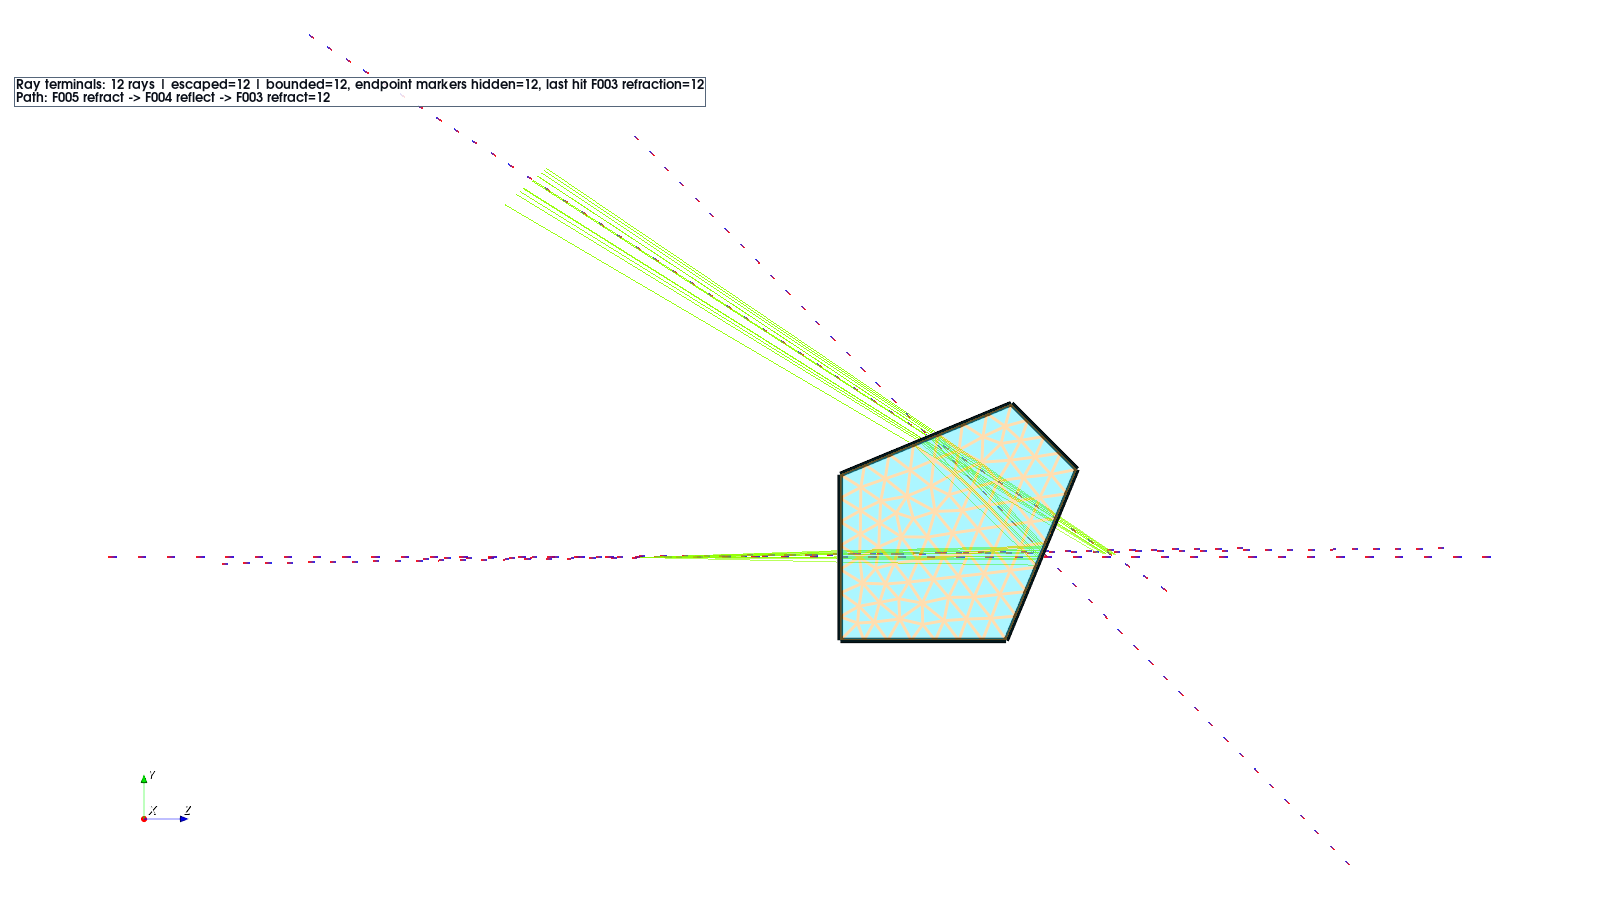
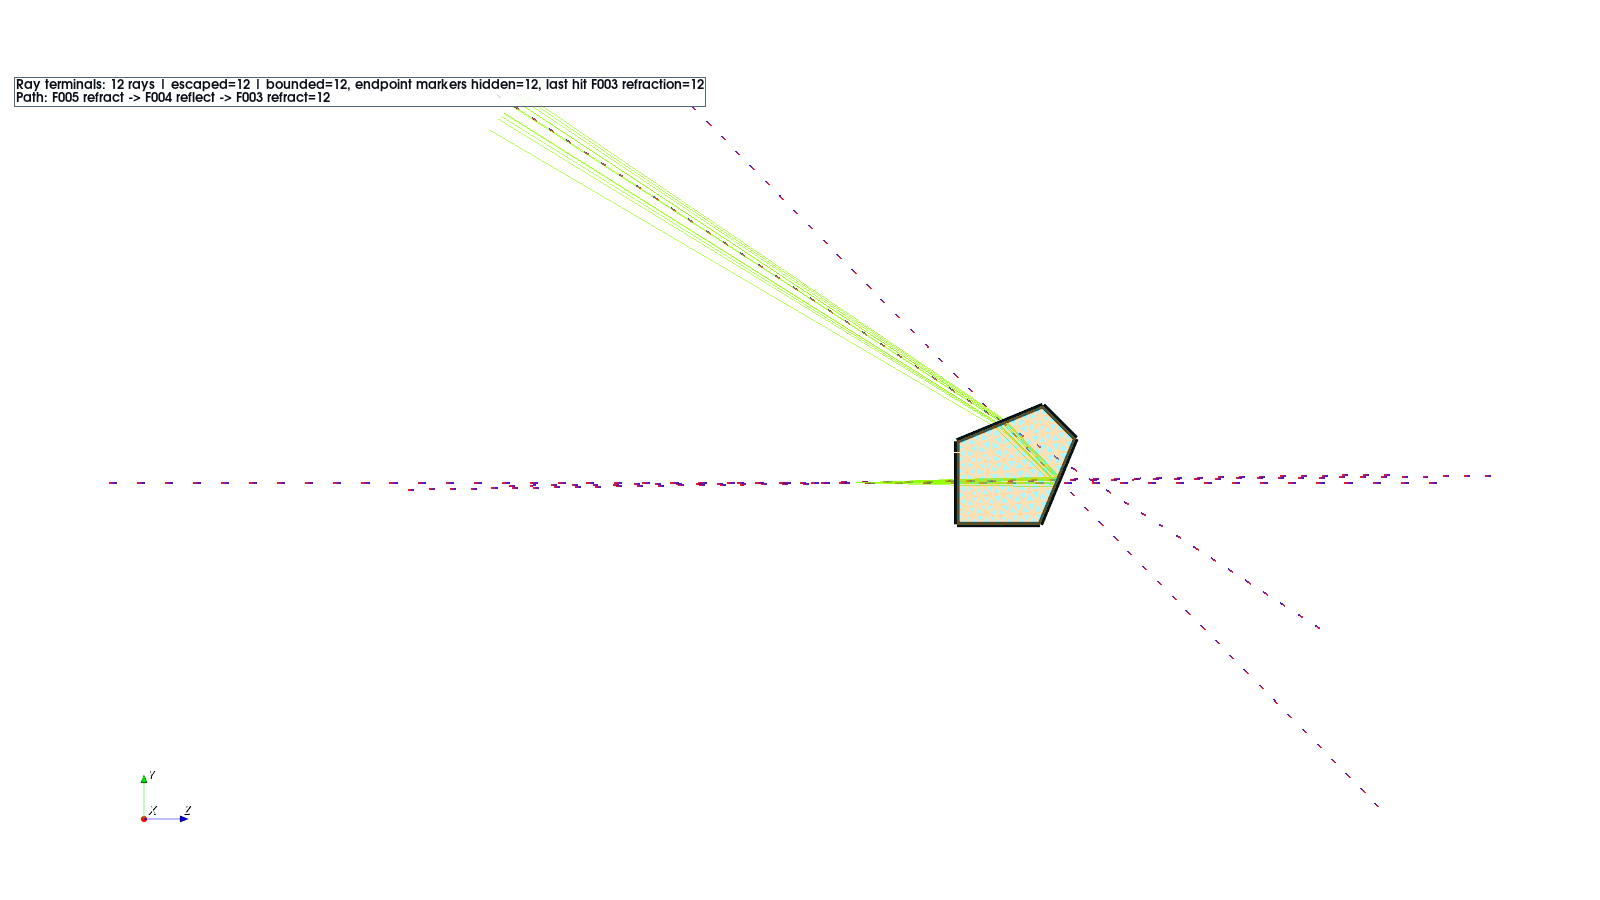
Document ray direction display fix

Changed region(s): [[0.4062, 0.4356, 0.7188, 0.7156], [0.3125, 0.1244, 0.5938, 0.4667]]

diff --git a/BRANCH_README.md b/BRANCH_README.md
@@ -59,21 +59,21 @@ Estimated branch status:
 Overall branch direction: keep moving toward one scene/event truth source while
 preserving exact sequential prescriptions as the ordered-path special case.
 
-Latest movement on 2026-05-22: Open 3D now reports the final CAD face/action and
-the dominant full face/action path sequence in the in-viewport ray terminal
-summary. A headless diagnostic with only F004 assigned `Full Reflecting` records
+Latest movement on 2026-05-22: RayKeeper now sign-reconciles canonical
+incoming/outgoing event directions against the traced physical polyline, and the
+shared 2D/Open 3D escaped-ray capper also rejects terminal vectors that point
+opposite the traced terminal segment. This fixes the false post-reflection tail
+that looked like F004 leakage or a both-directions hypotenuse ray after an odd
+number of reflections. Open 3D also keeps same-slot optical STEP imports
+non-destructive by auto-promoting the previous unpromoted overlay before loading
+the next one, and adds a targeted `Delete Selected STEP` command. A headless
+diagnostic with only F004 assigned `Full Reflecting` records
 `F004:reflection=12`, then the bundle exits at still default-Uncoated F003
 (`last hit F003 refraction=12`). With both F003 and F004 assigned
 `Full Reflecting`, the same diagnostic records
 `F005 refract -> F004 reflect -> F003 reflect -> F006 refract` for all 12 rays.
-The STEP1-STEP8 headless workflow now saves the event sequence, event direction
-vectors, and pickable optical-axis records for every capture. It confirms that
-the standalone right-angle prism validator still derives `reflect_tir` from
-Uncoated BK7-air physics, while the current scripted two-prism STEP8 placement
-is not yet a valid TIR proof because the second prism is not automatically
-snapped/oriented to the generated penta exit-axis guide. The next pipeline item
-is to make cascade placement consume those generated exit-axis guides instead of
-using a hard-coded second-prism pose.
+The next pipeline item is cascade placement: consume the generated penta
+exit-axis guides for the second prism instead of using a hard-coded pose.
 
 ## Upstream Main Sync
 
